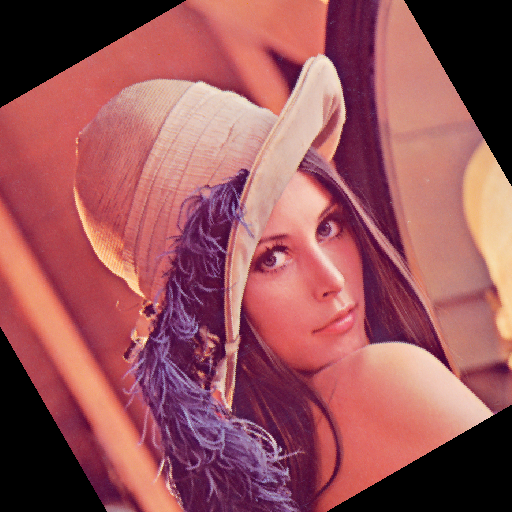
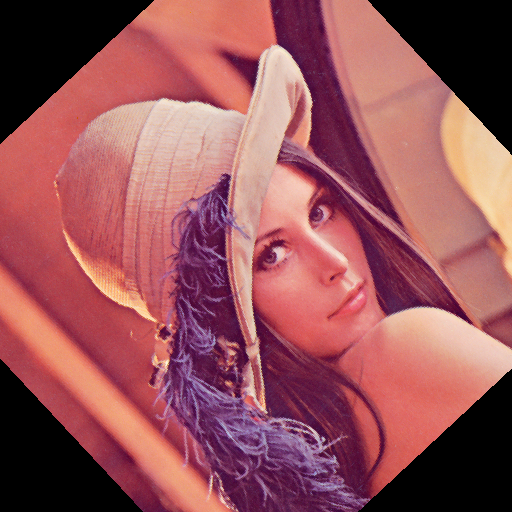
Improving the code

diff --git a/src/main/java/ueb1_image_rotation_temp/Task1ImageRotate.java b/src/main/java/ueb1_image_rotation_temp/Task1ImageRotate.java
@@ -21,7 +21,7 @@ public class Task1ImageRotate {
     static String programSource = "";
 
     public static void main(String args[]) throws IOException {
-        float rotation = 30.0f;
+        float rotation = 43.0f;
 
         // Enable exceptions and subsequently omit error checks in this sample
         CL.setExceptionsEnabled(true);
